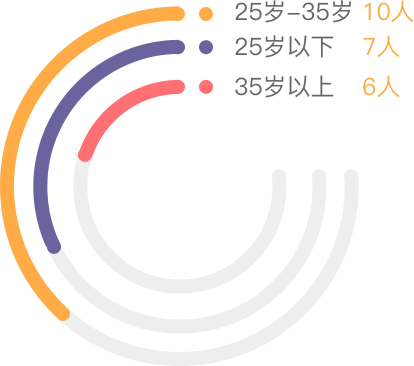
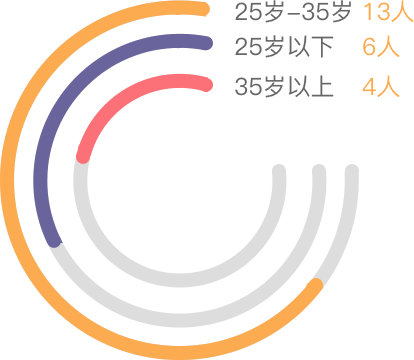
feat(organization):组织信息页面修改

diff --git a/app/views/disclosure/organization.html b/app/views/disclosure/organization.html
@@ -36,8 +36,8 @@
     <div class="framework-info">
       <img src="../images/disclosure/zzxx-title3.png" width="18%" alt="" class="display-bl margin-auto framework-title">
       <div class="organiz-img margin-t-30 margin-b-30">
-        <span>董事长</span><span>监事</span><span>CEO</span><span>综合部</span>
-        <span>合规部</span><span>风控部</span><span>金融产品部</span><span>市场运营部</span><span>信息技术部</span>
+        <span>董事长</span><span>监事</span><span>CEO</span><span>市场运营部</span>
+        <span>金融产品部</span><span>信息技术部</span><span>风控部</span><span>合规部</span><span>综合部</span>
       </div>
     </div>
     <!-- 从业人员概况 -->
@@ -49,15 +49,15 @@
           <ul class="agesList">
             <li>
               <span>25岁-35岁</span>
-              <span>10人</span>
+              <span>13人</span>
             </li>
             <li>
               <span>25岁以下</span>
-              <span>7人</span>
+              <span>6人</span>
             </li>
             <li>
               <span>35岁以上</span>
-              <span>6人</span>
+              <span>4人</span>
             </li>
           </ul>
         </div>
@@ -66,19 +66,19 @@
           <ul class="education">
             <li>
               <span>本科</span>
-              <span>13人</span>
+              <span>16人</span>
             </li>
             <li>
               <span>大专</span>
-              <span>4人</span>
+              <span>3人</span>
             </li>
             <li>
               <span>硕士</span>
-              <span>3人</span>
+              <span>2人</span>
             </li>
             <li>
               <span>博士及以上</span>
-              <span>3人</span>
+              <span>2人</span>
             </li>
           </ul>
         </div>
@@ -88,6 +88,12 @@
         <span>学历分布</span>
       </div>
     </div>
+    <!-- 分支机构信息 -->
+    <div class="complaint-info">
+      <img src="../images/disclosure/zxts.png" width="16.5%" alt="" class="complaint-title">
+      <div class="complaint">未开设分支机构</div>
+    </div>
+    <div class="parting-line"></div>
     <!-- 渠道信息 -->
     <div class="channels-info">
       <img src="../images/disclosure/zzxx-title5.png" width="10%" alt="" class="channels-title">
@@ -114,17 +120,6 @@
         <div class="information">
           <p>APP：宏财网（iOS及Android）</p>
         </div>
-      </div>
-    </div>
-    <div class="parting-line"></div>
-    <!-- 咨询投诉 -->
-    <div class="complaint-info">
-      <img src="../images/disclosure/zxts.png" width="18%" alt="" class="complaint-title">
-      <div class="complaint">
-        <div class="information">
-          <p>咨询投诉：400-990-7626（工作时间：9:00-18:00）</p>
-        </div>
-        <img src="../images/disclosure/cons.png" alt="">
       </div>
     </div>
   </div>

diff --git a/app/scripts/controller/disclosure/disclosure-ctrl.js b/app/scripts/controller/disclosure/disclosure-ctrl.js
@@ -34,6 +34,10 @@ angular.module('hongcaiApp')
     };
     $scope.businessInfo = [
       {
+        name: '平台名称',
+        content: '宏财网'
+      },
+      {
         name: '公司名称',
         content: '北京竞财投资服务有限公司'
       },
@@ -59,15 +63,23 @@ angular.module('hongcaiApp')
       },
       {
         name: '公司经营地',
-        content: '北京市海淀区中关村南二条1号中科院空间中心九章大厦B栋一层'
+        content: '北京市海淀区中关村南二条一号中科院国家空间中心九章大厦B'
       },
       {
         name: '公司成立时间',
-        content: '2015年01月23日'
+        content: '2015-1-23'
+      },
+      {
+        name: '官网网站正式上线运营时间',
+        content: '2015-2-2'
+      },
+      {
+        name: 'APP上线运营时间',
+        content: '2017-3-13'
       },
       {
         name: '公司经营期限',
-        content: '至2035年01月22日'
+        content: '2015-1-23至2035-1-22'
       },
       {
         name: '公司经营状态',
@@ -75,6 +87,22 @@ angular.module('hongcaiApp')
       },
       {
         name: '公司法定代表人',
+        content: '刘刚'
+      },
+      {
+        name: '实际控制人',
+        content: '刘刚'
+      },
+      {
+        name: '董事',
+        content: '刘刚；李青；邓铁军'
+      },
+      {
+        name: '监事',
+        content: '王静波'
+      },
+      {
+        name: '经理',
         content: '刘刚'
       },
       {

diff --git a/app/styles/disclosure.less b/app/styles/disclosure.less
@@ -355,7 +355,7 @@
         line-height: 2.92;
         text-align: center;
         color: #666666;
-        text-shadow: 0 0 17.5px rgba(255, 75, 0, 0.25);    
+        text-shadow: 0 0 28.5px rgba(255, 75, 0, 0.95);    
         top: 82%;
       }
       span:nth-child(1), span:nth-child(2), span:nth-child(3){
@@ -369,22 +369,22 @@
         top: 31.7%;
       }
       span:nth-child(4){
-        left: 11.5%;
+        left: 9.8%;
       }
       span:nth-child(5){
-        left: 26%;
+        left: 24.3%;
       }
       span:nth-child(6){
-        left: 40%;
+        left: 38.4%;
       }
       span:nth-child(7){
-        left: 52.5%;
+        left: 54.5%;
       }
       span:nth-child(8){
-        left: 67%;
+        left: 68.6%;
       }
       span:nth-child(9){
-        left: 81%;
+        left: 83%;
       }
     }
   }
@@ -493,8 +493,11 @@
     background-color: #ffffff;
     box-shadow: 0 1.5px 3.5px 0 rgba(80, 77, 75, 0.2);
   }
+  .complaint {
+    line-height: 75px;
+  }
 }
-.complaint-info { 
+.channels-info { 
   background-color:#f3f6f8;
 }
 //经营信息
